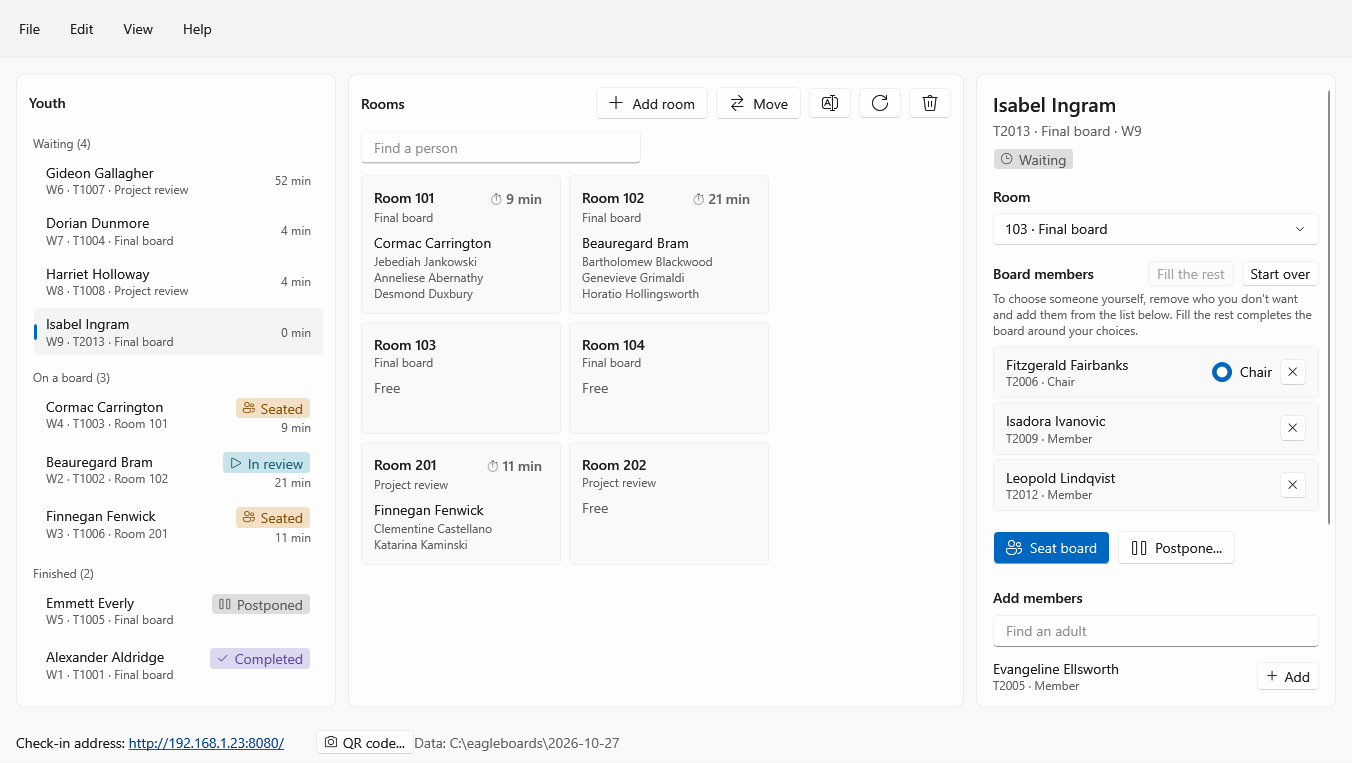
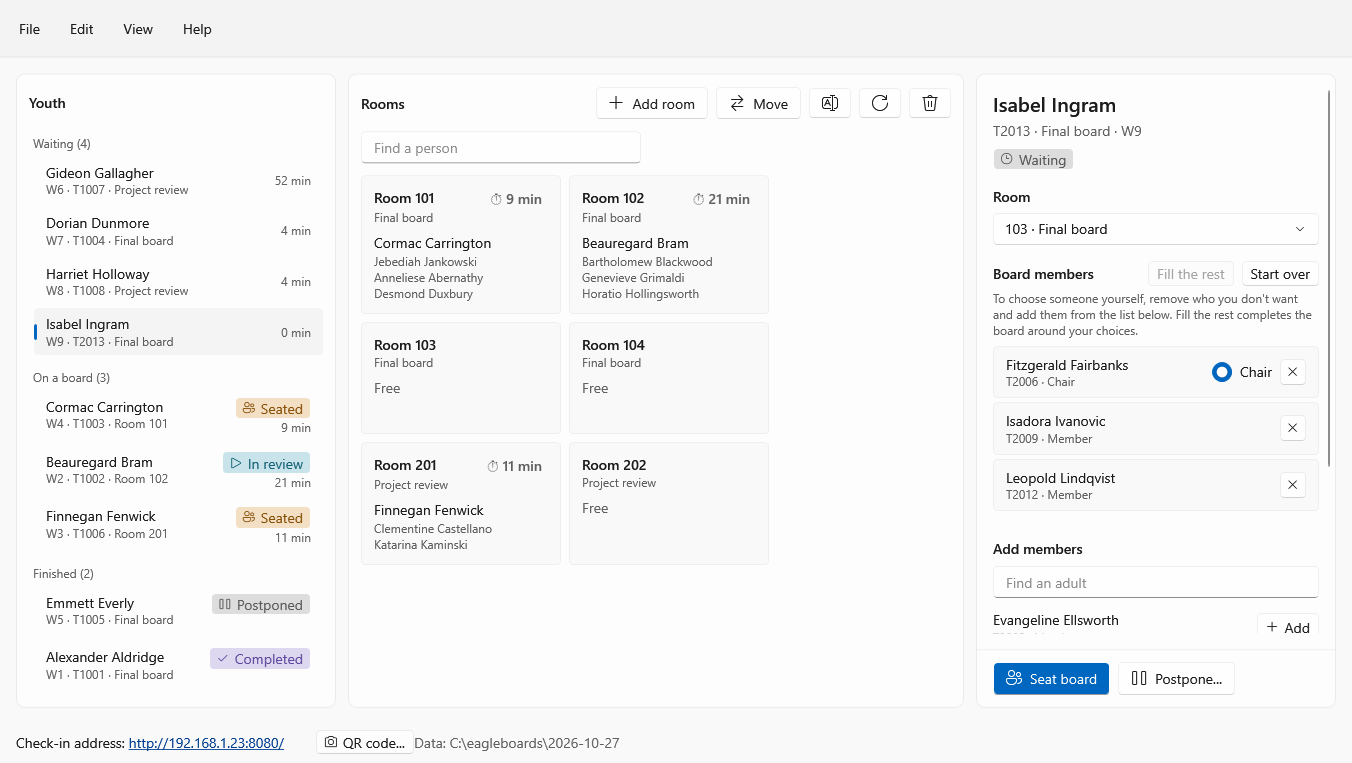
Pin the step's buttons to the details pane's foot; result before members
The owner had to scroll past a board's members to reach Complete.

- Seat board and Postpone, or Start review, Complete and Reset, sit in a
  bar pinned to the foot of the details pane, outside what scrolls, so
  the next step is never out of sight however long the board or the
  list of free adults is. The bar goes when there's no step.
- In review, Result and Notes come first and Board members after them:
  members rarely change by then.
- Ctrl+Enter runs the step shown, from anywhere on the Event page, the
  Notes box included (SPEC.md P-3, which Windows hadn't had).
- Help mentions Ctrl+Enter; the README pictures follow.

Changed region(s): [[0.7145, 0.6933, 0.9009, 0.9345], [0.932, 0.8742, 0.963, 0.9043], [0.932, 0.8139, 0.963, 0.844]]

diff --git a/src/EagleBoards.App/MainWindow.xaml b/src/EagleBoards.App/MainWindow.xaml
@@ -450,126 +450,133 @@
 
             <!-- The selected youth's board -->
             <Border Grid.Column="4" Style="{StaticResource Card}" Padding="0">
-              <ScrollViewer VerticalScrollBarVisibility="Auto" Padding="16">
-                <StackPanel x:Name="Details">
-                  <StackPanel x:Name="DetailsEmpty" Margin="0,48,0,0">
-                    <TextBlock Style="{StaticResource Glyph}" FontSize="32" Text="&#xE716;" HorizontalAlignment="Center"
-                               Foreground="{DynamicResource TextFillColorTertiaryBrush}" />
-                    <TextBlock Style="{StaticResource Secondary}" TextAlignment="Center" TextWrapping="Wrap" Margin="0,12,0,0"
-                               Text="Select a youth to build their board, or a room to see who's in it." />
-                  </StackPanel>
-
-                  <StackPanel x:Name="DetailsHead" Visibility="Collapsed">
-                    <TextBlock x:Name="DetailName" Style="{StaticResource SubtitleTextBlockStyle}" TextWrapping="Wrap" />
-                    <TextBlock x:Name="DetailSub" Style="{StaticResource Secondary}" TextWrapping="Wrap" Margin="0,4,0,8" />
-                    <ContentControl x:Name="DetailStatus" ContentTemplate="{StaticResource StatusCell}" HorizontalAlignment="Left" Focusable="False" />
-                    <app:InfoBar x:Name="DetailNotice" Margin="0,12,0,0" IsClosable="True" />
-                  </StackPanel>
-
-                  <!-- Waiting: build the board -->
-                  <StackPanel x:Name="BuilderSection" Visibility="Collapsed">
-                    <TextBlock Style="{StaticResource SectionLabel}" Text="Room" />
-                    <ComboBox x:Name="BuilderRoom" DisplayMemberPath="Value" SelectedValuePath="Key" HorizontalAlignment="Stretch"
-                              SelectionChanged="OnBuilderRoomChanged" AutomationProperties.Name="Room" />
-
-                    <DockPanel Margin="0,16,0,4">
-                      <StackPanel DockPanel.Dock="Right" Orientation="Horizontal">
-                        <Button x:Name="FillButton" Click="OnFillBoard" Padding="8,2" Margin="0,0,8,0"
-                                ToolTip="Keep the members you've chosen and add a chair and members to complete the board">
-                          <TextBlock Text="Fill the rest" />
-                        </Button>
-                        <Button Click="OnClearPicks" Padding="8,2" ToolTip="Remove everyone and propose a new board">
-                          <TextBlock Text="Start over" />
-                        </Button>
+              <DockPanel>
+                <!-- The step's buttons, pinned to the pane's foot so Seat board,
+                     Start review and Complete are never scrolled out of sight
+                     (Ctrl+Enter runs the step from anywhere; SPEC.md D-11, P-3). -->
+                <Border x:Name="ActionBar" DockPanel.Dock="Bottom" Padding="16,12,8,12" BorderThickness="0,1,0,0"
+                        BorderBrush="{DynamicResource CardStrokeColorDefaultBrush}" Visibility="Collapsed">
+                  <WrapPanel>
+                    <Button x:Name="SeatButton" Style="{StaticResource PrimaryCommandButton}" Click="OnSeat"
+                            ToolTip="The members go to the room to read the application, references and workbook. The youth waits outside until Start review. (Ctrl+Enter)">
+                      <StackPanel Orientation="Horizontal"><TextBlock Style="{StaticResource Glyph}" Text="&#xE716;" Margin="0,0,8,0" /><AccessText x:Name="SeatText" Text="_Seat board" /></StackPanel>
+                    </Button>
+                    <Button x:Name="PostponeButton" Style="{StaticResource CommandButton}" Click="OnPostpone"
+                            ToolTip="No board at this event, usually because the paperwork isn't in order">
+                      <StackPanel Orientation="Horizontal"><TextBlock Style="{StaticResource Glyph}" Text="&#xE769;" Margin="0,0,8,0" /><AccessText Text="_Postpone..." /></StackPanel>
+                    </Button>
+                    <Button x:Name="StartButton" Style="{StaticResource PrimaryCommandButton}" Click="OnStart"
+                            ToolTip="Bring the youth in once the members have finished reading. Reset undoes it. (Ctrl+Enter)">
+                      <StackPanel Orientation="Horizontal"><TextBlock Style="{StaticResource Glyph}" Text="&#xE768;" Margin="0,0,8,0" /><AccessText Text="Sta_rt review" /></StackPanel>
+                    </Button>
+                    <Button x:Name="CompleteButton" Style="{StaticResource PrimaryCommandButton}" Click="OnComplete"
+                            ToolTip="Record the result and free the room and its members (Ctrl+Enter)">
+                      <StackPanel Orientation="Horizontal"><TextBlock Style="{StaticResource Glyph}" Text="&#xE73E;" Margin="0,0,8,0" /><AccessText Text="_Complete" /></StackPanel>
+                    </Button>
+                    <Button x:Name="ResetButton" Style="{StaticResource CommandButton}" Click="OnReset" ToolTip="Undo the seating: back to waiting, room and members freed">
+                      <StackPanel Orientation="Horizontal"><TextBlock Style="{StaticResource Glyph}" Text="&#xE7A7;" Margin="0,0,8,0" /><AccessText Text="Rese_t..." /></StackPanel>
+                    </Button>
+                  </WrapPanel>
+                </Border>
+                <ScrollViewer VerticalScrollBarVisibility="Auto" Padding="16">
+                  <StackPanel x:Name="Details">
+                    <StackPanel x:Name="DetailsEmpty" Margin="0,48,0,0">
+                      <TextBlock Style="{StaticResource Glyph}" FontSize="32" Text="&#xE716;" HorizontalAlignment="Center"
+                                 Foreground="{DynamicResource TextFillColorTertiaryBrush}" />
+                      <TextBlock Style="{StaticResource Secondary}" TextAlignment="Center" TextWrapping="Wrap" Margin="0,12,0,0"
+                                 Text="Select a youth to build their board, or a room to see who's in it." />
+                    </StackPanel>
+  
+                    <StackPanel x:Name="DetailsHead" Visibility="Collapsed">
+                      <TextBlock x:Name="DetailName" Style="{StaticResource SubtitleTextBlockStyle}" TextWrapping="Wrap" />
+                      <TextBlock x:Name="DetailSub" Style="{StaticResource Secondary}" TextWrapping="Wrap" Margin="0,4,0,8" />
+                      <ContentControl x:Name="DetailStatus" ContentTemplate="{StaticResource StatusCell}" HorizontalAlignment="Left" Focusable="False" />
+                      <app:InfoBar x:Name="DetailNotice" Margin="0,12,0,0" IsClosable="True" />
+                    </StackPanel>
+  
+                    <!-- Waiting: build the board -->
+                    <StackPanel x:Name="BuilderSection" Visibility="Collapsed">
+                      <TextBlock Style="{StaticResource SectionLabel}" Text="Room" />
+                      <ComboBox x:Name="BuilderRoom" DisplayMemberPath="Value" SelectedValuePath="Key" HorizontalAlignment="Stretch"
+                                SelectionChanged="OnBuilderRoomChanged" AutomationProperties.Name="Room" />
+  
+                      <DockPanel Margin="0,16,0,4">
+                        <StackPanel DockPanel.Dock="Right" Orientation="Horizontal">
+                          <Button x:Name="FillButton" Click="OnFillBoard" Padding="8,2" Margin="0,0,8,0"
+                                  ToolTip="Keep the members you've chosen and add a chair and members to complete the board">
+                            <TextBlock Text="Fill the rest" />
+                          </Button>
+                          <Button Click="OnClearPicks" Padding="8,2" ToolTip="Remove everyone and propose a new board">
+                            <TextBlock Text="Start over" />
+                          </Button>
+                        </StackPanel>
+                        <TextBlock Style="{StaticResource BodyStrongTextBlockStyle}" Text="Board members" VerticalAlignment="Center" />
+                      </DockPanel>
+                      <TextBlock Style="{StaticResource Hint}" Margin="0,0,0,8"
+                                 Text="To choose someone yourself, remove who you don't want and add them from the list below. Fill the rest completes the board around your choices." />
+                      <ItemsControl x:Name="PickList" ItemTemplate="{StaticResource PickTemplate}" Focusable="False" AutomationProperties.Name="Board members" />
+                      <TextBlock x:Name="NoPicksText" Style="{StaticResource Hint}" Text="No one yet. Add members below." Margin="0,0,0,4" />
+  
+                      <!-- What stops or qualifies Seat board, at the foot of the pane. -->
+                      <StackPanel x:Name="IssueList" Margin="0,8,0,0" />
+  
+                      <TextBlock Style="{StaticResource SectionLabel}" Text="Add members" Margin="0,16,0,8" />
+                      <TextBox x:Name="AvailableFilter" app:Placeholder.Text="Find an adult" TextChanged="OnAvailableFilter" AutomationProperties.Name="Find an adult"
+                               ToolTip="Find an adult by name or unit" Margin="0,0,0,8" />
+                      <ItemsControl x:Name="AvailableList" ItemTemplate="{StaticResource AvailableTemplate}" Focusable="False"
+                                    AutomationProperties.Name="Adults who can join" />
+                      <TextBlock x:Name="NoAvailableText" Style="{StaticResource Hint}" Text="No other adults are free for this board." />
+                    </StackPanel>
+  
+                    <!-- Seated, in review, or finished -->
+                    <StackPanel x:Name="BoardSection" Visibility="Collapsed">
+                      <ItemsControl x:Name="FactList" ItemTemplate="{StaticResource FactTemplate}" Margin="0,16,0,0" Focusable="False" />
+  
+                      <!-- In review: the result first, then the members, who
+                           rarely change by then. -->
+                      <StackPanel x:Name="ResultSection" Margin="0,0,0,24">
+                        <TextBlock Style="{StaticResource BodyStrongTextBlockStyle}" Text="Result" Margin="0,4,0,8" />
+                        <StackPanel x:Name="ResultChoices" />
+                        <TextBlock Text="Notes" Margin="0,12,0,8" />
+                        <TextBox x:Name="NotesBox" AcceptsReturn="True" TextWrapping="Wrap" Height="88" VerticalContentAlignment="Top"
+                                 VerticalScrollBarVisibility="Auto" AutomationProperties.Name="Notes" />
                       </StackPanel>
-                      <TextBlock Style="{StaticResource BodyStrongTextBlockStyle}" Text="Board members" VerticalAlignment="Center" />
-                    </DockPanel>
-                    <TextBlock Style="{StaticResource Hint}" Margin="0,0,0,8"
-                               Text="To choose someone yourself, remove who you don't want and add them from the list below. Fill the rest completes the board around your choices." />
-                    <ItemsControl x:Name="PickList" ItemTemplate="{StaticResource PickTemplate}" Focusable="False" AutomationProperties.Name="Board members" />
-                    <TextBlock x:Name="NoPicksText" Style="{StaticResource Hint}" Text="No one yet. Add members below." Margin="0,0,0,4" />
-
-                    <StackPanel x:Name="IssueList" Margin="0,8,0,0" />
-
-                    <WrapPanel Margin="0,8,0,0">
-                      <Button x:Name="SeatButton" Style="{StaticResource PrimaryCommandButton}" Click="OnSeat"
-                              ToolTip="The members go to the room to read the application, references and workbook. The youth waits outside until Start review.">
-                        <StackPanel Orientation="Horizontal"><TextBlock Style="{StaticResource Glyph}" Text="&#xE716;" Margin="0,0,8,0" /><AccessText x:Name="SeatText" Text="_Seat board" /></StackPanel>
-                      </Button>
-                      <Button x:Name="PostponeButton" Style="{StaticResource CommandButton}" Click="OnPostpone"
-                              ToolTip="No board at this event, usually because the paperwork isn't in order">
-                        <StackPanel Orientation="Horizontal"><TextBlock Style="{StaticResource Glyph}" Text="&#xE769;" Margin="0,0,8,0" /><AccessText Text="_Postpone..." /></StackPanel>
-                      </Button>
-                    </WrapPanel>
-
-                    <TextBlock Style="{StaticResource SectionLabel}" Text="Add members" Margin="0,24,0,8" />
-                    <TextBox x:Name="AvailableFilter" app:Placeholder.Text="Find an adult" TextChanged="OnAvailableFilter" AutomationProperties.Name="Find an adult"
-                             ToolTip="Find an adult by name or unit" Margin="0,0,0,8" />
-                    <ItemsControl x:Name="AvailableList" ItemTemplate="{StaticResource AvailableTemplate}" Focusable="False"
-                                  AutomationProperties.Name="Adults who can join" />
-                    <TextBlock x:Name="NoAvailableText" Style="{StaticResource Hint}" Text="No other adults are free for this board." />
-                  </StackPanel>
-
-                  <!-- Seated, in review, or finished -->
-                  <StackPanel x:Name="BoardSection" Visibility="Collapsed">
-                    <ItemsControl x:Name="FactList" ItemTemplate="{StaticResource FactTemplate}" Margin="0,16,0,0" Focusable="False" />
-
-                    <!-- Someone has to leave mid-board: change the members here. -->
-                    <StackPanel x:Name="MembersSection">
-                      <TextBlock Style="{StaticResource BodyStrongTextBlockStyle}" Text="Board members" Margin="0,0,0,8" />
-                      <ItemsControl x:Name="BoardMemberList" ItemTemplate="{StaticResource SeatedMemberTemplate}" Focusable="False"
-                                    AutomationProperties.Name="Board members" />
-                      <WrapPanel Margin="0,4,0,16">
-                        <Button Style="{StaticResource CommandButton}" Click="OnAddMember" ToolTip="Add someone to this board">
-                          <StackPanel Orientation="Horizontal"><TextBlock Style="{StaticResource Glyph}" Text="&#xE710;" Margin="0,0,8,0" /><TextBlock Text="Add member..." /></StackPanel>
+  
+                      <!-- Someone has to leave mid-board: change the members here. -->
+                      <StackPanel x:Name="MembersSection">
+                        <TextBlock Style="{StaticResource BodyStrongTextBlockStyle}" Text="Board members" Margin="0,0,0,8" />
+                        <ItemsControl x:Name="BoardMemberList" ItemTemplate="{StaticResource SeatedMemberTemplate}" Focusable="False"
+                                      AutomationProperties.Name="Board members" />
+                        <WrapPanel Margin="0,4,0,0">
+                          <Button Style="{StaticResource CommandButton}" Click="OnAddMember" ToolTip="Add someone to this board">
+                            <StackPanel Orientation="Horizontal"><TextBlock Style="{StaticResource Glyph}" Text="&#xE710;" Margin="0,0,8,0" /><TextBlock Text="Add member..." /></StackPanel>
+                          </Button>
+                          <Button Style="{StaticResource CommandButton}" Click="OnChangeChair" ToolTip="Hand the chair to another qualified member">
+                            <TextBlock Text="Change chair..." />
+                          </Button>
+                        </WrapPanel>
+                      </StackPanel>
+                    </StackPanel>
+  
+                    <!-- Where their people are: for fetching them, and after the board. -->
+                    <StackPanel x:Name="LocateSection" Visibility="Collapsed">
+                      <TextBlock Style="{StaticResource SectionLabel}" Text="Leaders and parents" Margin="0,24,0,8" />
+                      <ItemsControl x:Name="LocateList" ItemTemplate="{StaticResource FactTemplate}" Focusable="False" />
+                      <TextBlock x:Name="LocateNone" Style="{StaticResource Hint}" />
+                      <!-- For the adult who came with this youth but didn't say so at sign-in. -->
+                      <WrapPanel Margin="0,8,0,0">
+                        <Button Style="{StaticResource CommandButton}" Click="OnLinkAdult"
+                                ToolTip="Someone who came to support this youth but didn't say so at sign-in">
+                          <StackPanel Orientation="Horizontal"><TextBlock Style="{StaticResource Glyph}" Text="&#xE71B;" Margin="0,0,8,0" /><TextBlock Text="Link an adult..." /></StackPanel>
                         </Button>
-                        <Button Style="{StaticResource CommandButton}" Click="OnChangeChair" ToolTip="Hand the chair to another qualified member">
-                          <TextBlock Text="Change chair..." />
+                        <Button x:Name="UnlinkButton" Style="{StaticResource CommandButton}" Click="OnUnlinkAdult" ToolTip="Remove a supporting adult's link to this youth">
+                          <TextBlock Text="Unlink..." />
                         </Button>
                       </WrapPanel>
                     </StackPanel>
-
-                    <StackPanel x:Name="ResultSection">
-                      <TextBlock Style="{StaticResource BodyStrongTextBlockStyle}" Text="Result" Margin="0,4,0,8" />
-                      <StackPanel x:Name="ResultChoices" />
-                      <TextBlock Text="Notes" Margin="0,12,0,8" />
-                      <TextBox x:Name="NotesBox" AcceptsReturn="True" TextWrapping="Wrap" Height="88" VerticalContentAlignment="Top"
-                               VerticalScrollBarVisibility="Auto" AutomationProperties.Name="Notes" />
-                    </StackPanel>
-
-                    <WrapPanel Margin="0,16,0,0">
-                      <Button x:Name="StartButton" Style="{StaticResource PrimaryCommandButton}" Click="OnStart"
-                              ToolTip="Bring the youth in once the members have finished reading. Reset undoes it.">
-                        <StackPanel Orientation="Horizontal"><TextBlock Style="{StaticResource Glyph}" Text="&#xE768;" Margin="0,0,8,0" /><AccessText Text="Sta_rt review" /></StackPanel>
-                      </Button>
-                      <Button x:Name="CompleteButton" Style="{StaticResource PrimaryCommandButton}" Click="OnComplete"
-                              ToolTip="Record the result and free the room and its members">
-                        <StackPanel Orientation="Horizontal"><TextBlock Style="{StaticResource Glyph}" Text="&#xE73E;" Margin="0,0,8,0" /><AccessText Text="_Complete" /></StackPanel>
-                      </Button>
-                      <Button x:Name="ResetButton" Style="{StaticResource CommandButton}" Click="OnReset" ToolTip="Undo the seating: back to waiting, room and members freed">
-                        <StackPanel Orientation="Horizontal"><TextBlock Style="{StaticResource Glyph}" Text="&#xE7A7;" Margin="0,0,8,0" /><AccessText Text="Rese_t..." /></StackPanel>
-                      </Button>
-                    </WrapPanel>
                   </StackPanel>
-
-                  <!-- Where their people are: for fetching them, and after the board. -->
-                  <StackPanel x:Name="LocateSection" Visibility="Collapsed">
-                    <TextBlock Style="{StaticResource SectionLabel}" Text="Leaders and parents" Margin="0,24,0,8" />
-                    <ItemsControl x:Name="LocateList" ItemTemplate="{StaticResource FactTemplate}" Focusable="False" />
-                    <TextBlock x:Name="LocateNone" Style="{StaticResource Hint}" />
-                    <!-- For the adult who came with this youth but didn't say so at sign-in. -->
-                    <WrapPanel Margin="0,8,0,0">
-                      <Button Style="{StaticResource CommandButton}" Click="OnLinkAdult"
-                              ToolTip="Someone who came to support this youth but didn't say so at sign-in">
-                        <StackPanel Orientation="Horizontal"><TextBlock Style="{StaticResource Glyph}" Text="&#xE71B;" Margin="0,0,8,0" /><TextBlock Text="Link an adult..." /></StackPanel>
-                      </Button>
-                      <Button x:Name="UnlinkButton" Style="{StaticResource CommandButton}" Click="OnUnlinkAdult" ToolTip="Remove a supporting adult's link to this youth">
-                        <TextBlock Text="Unlink..." />
-                      </Button>
-                    </WrapPanel>
-                  </StackPanel>
-                </StackPanel>
-              </ScrollViewer>
+                </ScrollViewer>
+              </DockPanel>
             </Border>
           </Grid>
 

diff --git a/src/EagleBoards.App/HelpWindow.xaml b/src/EagleBoards.App/HelpWindow.xaml
@@ -80,7 +80,7 @@
         <Bold>Admin tables</Bold>, every record, including the pre-registered youth and the adult history (double-click a cell to change it; this is where you change someone's roles);
         the check-in <Bold>QR code</Bold>; and <Bold>Settings</Bold>, the times at which a room turns to caution and to overdue.</Paragraph>
       <Paragraph><Bold>Edit › Undo</Bold> takes back the last board step, room change, gone home or link. <Bold>Help › Donate</Bold> shows the ways to support the scheduler's development.</Paragraph>
-      <Paragraph>Keyboard: Alt or F10 opens the menu bar. Ctrl+1, Ctrl+2 and Ctrl+3 open Event, Results and People. Ctrl+F finds a person (on Results and People, a board or an adult). Ctrl+S saves the report, Ctrl+Z undoes, Ctrl+comma opens Settings.
+      <Paragraph>Keyboard: Alt or F10 opens the menu bar. Ctrl+1, Ctrl+2 and Ctrl+3 open Event, Results and People. Ctrl+F finds a person (on Results and People, a board or an adult). Ctrl+Enter takes the selected youth's next step (Seat board, Start review or Complete). Ctrl+S saves the report, Ctrl+Z undoes, Ctrl+comma opens Settings.
         F5 refreshes. F1 opens this help.</Paragraph>
 
       <Paragraph Style="{StaticResource H}">Where the data is</Paragraph>

diff --git a/src/EagleBoards.App/MainWindow.xaml.cs b/src/EagleBoards.App/MainWindow.xaml.cs
@@ -171,6 +171,7 @@ public partial class MainWindow : Window
         InputBindings.Add(new KeyBinding(new RelayCommand(() => ShowPage("People")), Key.D3, ModifierKeys.Control));
         InputBindings.Add(new KeyBinding(new RelayCommand(() => OnReport(this, new RoutedEventArgs())), Key.S, ModifierKeys.Control));
         InputBindings.Add(new KeyBinding(new RelayCommand(() => OnSettings(this, new RoutedEventArgs())), Key.OemComma, ModifierKeys.Control));
+        PreviewKeyDown += OnPreviewKey;
         Closing += OnClosing;
 
         ShowPage("Event");
@@ -545,6 +546,7 @@ public partial class MainWindow : Window
         LocateSection.Visibility = DetailsHead.Visibility;
         BuilderSection.Visibility = scout != null && BoardStatus.IsWaiting(scout.Status) ? Visibility.Visible : Visibility.Collapsed;
         BoardSection.Visibility = scout != null && !BoardStatus.IsWaiting(scout.Status) ? Visibility.Visible : Visibility.Collapsed;
+        ShowActions(scout);
         if (scout == null)
         {
             return;
@@ -565,6 +567,51 @@ public partial class MainWindow : Window
         }
 
         ShowLocate(scout);
+    }
+
+    /// <summary>
+    /// The buttons for the youth's next step, in the bar pinned to the foot
+    /// of the pane: Seat board and Postpone while they wait, Start review or
+    /// Complete once seated, and Reset. The bar goes when there's no step.
+    /// </summary>
+    private void ShowActions(ScoutRow? scout)
+    {
+        var status = scout?.Status;
+        var waiting = status != null && BoardStatus.IsWaiting(status);
+        var buttons = new (Button Button, bool Shown)[]
+        {
+            (SeatButton, waiting),
+            (PostponeButton, waiting),
+            (StartButton, status == BoardStatus.Seated),
+            (CompleteButton, status == BoardStatus.InProgress),
+            (ResetButton, status != null && !waiting && SchedulerLogic.ActionsFor(status).HasFlag(ScoutActions.Reset)),
+        };
+        foreach (var (button, shown) in buttons)
+        {
+            button.Visibility = shown ? Visibility.Visible : Visibility.Collapsed;
+        }
+
+        ActionBar.Visibility = buttons.Any(b => b.Shown) ? Visibility.Visible : Visibility.Collapsed;
+    }
+
+    /// <summary>
+    /// Ctrl+Enter runs the youth's next step (SPEC.md P-3): Seat board, Start
+    /// review or Complete, whichever the pane shows, from anywhere on the
+    /// Event page, the Notes box included (hence a preview: the box would
+    /// otherwise take the key for a new line).
+    /// </summary>
+    private void OnPreviewKey(object sender, KeyEventArgs e)
+    {
+        if (e.Key != Key.Enter || Keyboard.Modifiers != ModifierKeys.Control || !EventPage.IsVisible)
+        {
+            return;
+        }
+
+        if (new[] { SeatButton, StartButton, CompleteButton }.FirstOrDefault(b => b.IsVisible && b.IsEnabled) is { } step)
+        {
+            step.RaiseEvent(new RoutedEventArgs(System.Windows.Controls.Primitives.ButtonBase.ClickEvent, step));
+            e.Handled = true;
+        }
     }
 
     private void ShowBuilder(ScoutRow scout)
@@ -659,9 +706,6 @@ public partial class MainWindow : Window
 
         FactList.ItemsSource = facts;
         ResultSection.Visibility = scout.Status == BoardStatus.InProgress ? Visibility.Visible : Visibility.Collapsed;
-        StartButton.Visibility = scout.Status == BoardStatus.Seated ? Visibility.Visible : Visibility.Collapsed;
-        CompleteButton.Visibility = scout.Status == BoardStatus.InProgress ? Visibility.Visible : Visibility.Collapsed;
-        ResetButton.Visibility = SchedulerLogic.ActionsFor(scout.Status).HasFlag(ScoutActions.Reset) ? Visibility.Visible : Visibility.Collapsed;
     }
 
     /// <summary>Where the youth's leaders and parents are: for fetching them, and after the board.</summary>
